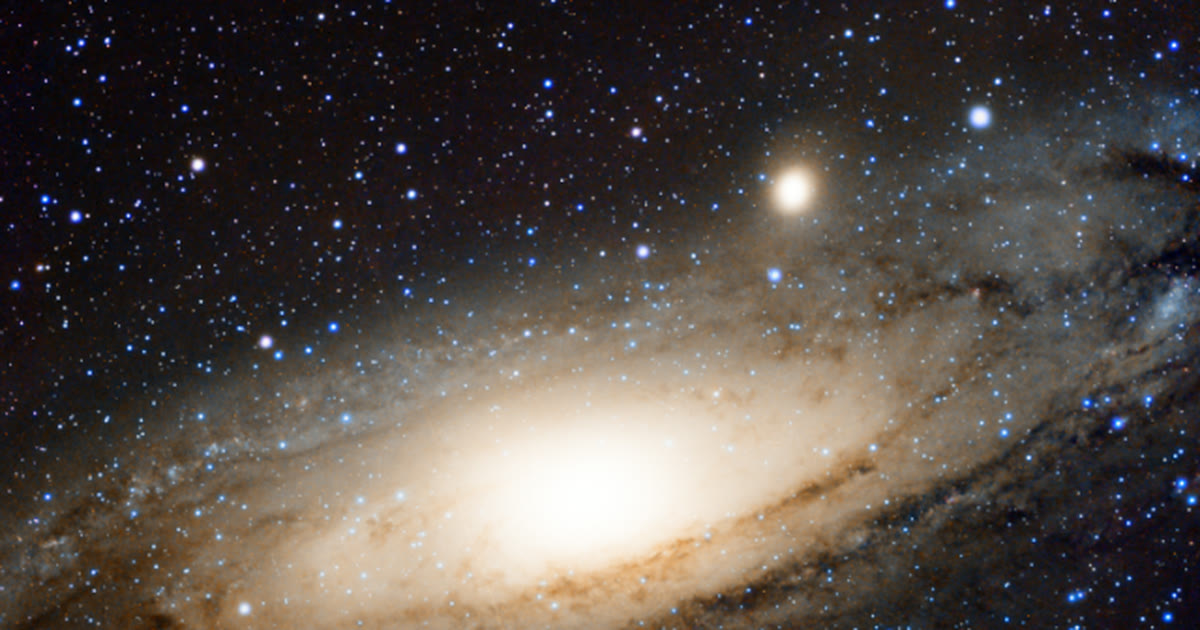
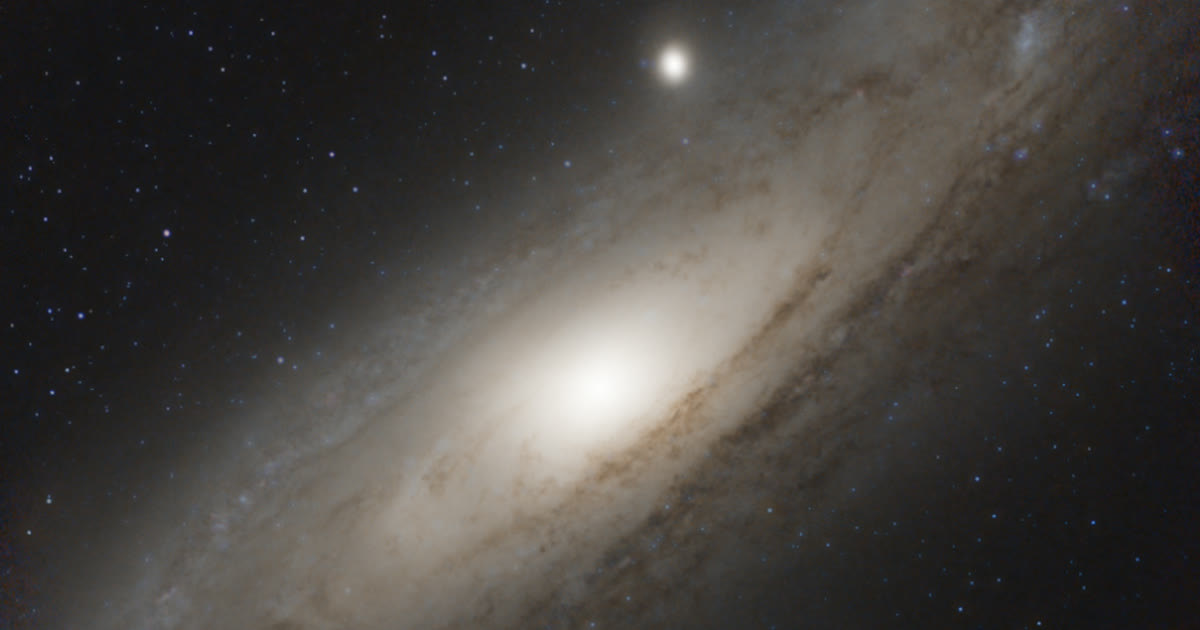
Site: use the new screenshots (M31_0908) instead of the Store ones
Five English screenshots for both languages (the Hungarian page says the UI
also speaks Hungarian); hero and social preview cut from the finished image.

diff --git a/site/layouts/home.html b/site/layouts/home.html
@@ -84,11 +84,12 @@
 
 <section class="wrap block">
   <h2>{{ T "shotsTitle" }}</h2>
+  {{- with T "shotsNote" }}<p class="note">{{ . }}</p>{{ end }}
   <div class="shots">
-    {{- range slice "result" "stretch" "welcome" }}
+    {{- range slice "result" "stretch" "noise" "crop" "welcome" }}
     {{- $key := . | strings.FirstUpper }}
     <figure class="shot">
-      <img src="/img/{{ . }}-{{ $lang }}.webp" width="1600" height="872" loading="lazy" alt="{{ T (printf "shot%sAlt" $key) }}">
+      <img src="/img/shot-{{ . }}.webp" width="1600" height="872" loading="lazy" alt="{{ T (printf "shot%sAlt" $key) }}">
       <figcaption>{{ T (printf "shot%s" $key) }}</figcaption>
     </figure>
     {{- end }}

diff --git a/site/static/style.css b/site/static/style.css
@@ -185,3 +185,4 @@ h3 { font-size: 17px; margin: 0; }
   .bar-nav > a { display: none; }
 }
 @media (prefers-reduced-motion: reduce) { html { scroll-behavior: auto; } }
+.note { color: var(--text3); font-size: 14px; margin: -8px 0 20px; }
